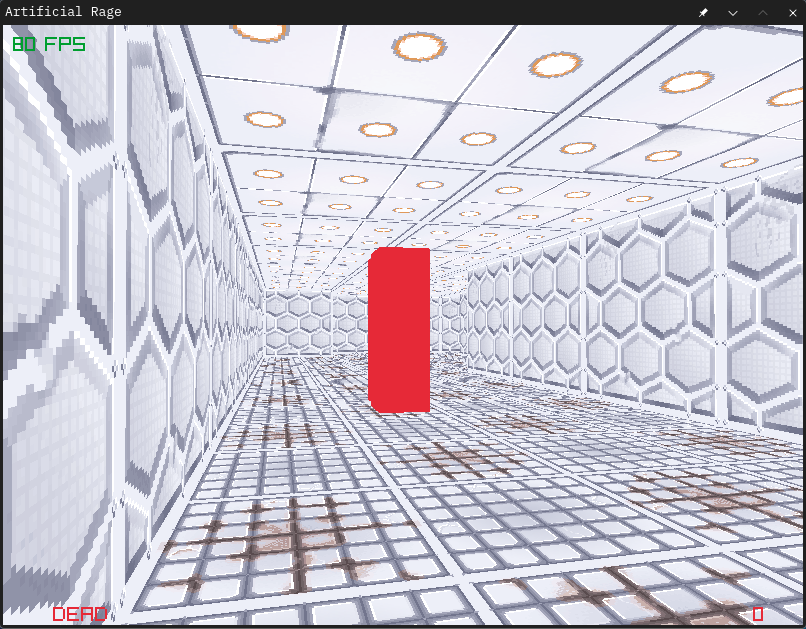
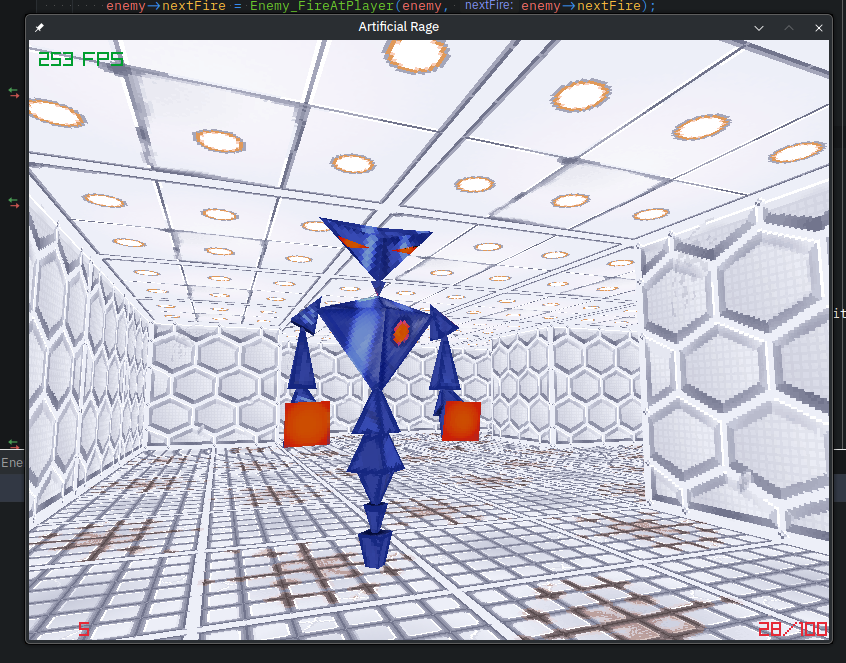
wip: load enemy models

diff --git a/src/enemy.c b/src/enemy.c
@@ -16,7 +16,13 @@ Enemy_Data Enemy_Add(float pos_x, float pos_y, int id)
     Vector3 enemyPosition = (Vector3) { pos_x, ENEMY_START_POSITION_Y, pos_y };
     Vector3 enemySize     = (Vector3) { 0.25f, 0.8f, 0.25f };
     float randomTickRate  = ((float)rand() / (float)(RAND_MAX)) * 2;
-    Enemy_Model model = {};
+    const char modelFileName[128] = "./assets/enemy.m3d";
+    Enemy_Model model = {
+        .model = LoadModel(modelFileName),
+        //.animations = LoadModelAnimations(modelFileName,
+        //                                                    (unsigned int*)ENEMY_ANIMATION_COUNT),
+        .currentAnimation = IDLE
+    };
     Enemy_Data enemy      = {
              .position    = enemyPosition,
              .size        = enemySize,
@@ -39,7 +45,7 @@ void Enemy_Update(Enemy_Data* enemy)
 {
     if(!enemy->dead)
     {
-        Enemy_Draw(*enemy);
+        Enemy_Draw(enemy);
         if(enemy->nextTick > 0)
         {
             enemy->nextTick -= GetFrameTime();
@@ -54,9 +60,9 @@ void Enemy_Update(Enemy_Data* enemy)
     }
 }
 
-void Enemy_Draw(Enemy_Data enemy)
+void Enemy_Draw(Enemy_Data* enemy)
 {
-    DrawCubeV(enemy.position, enemy.size, RED);
+    DrawModel(enemy->model.model, enemy->position, 0.5f, WHITE);
 }
 
 Ray Enemy_CreateRay(Enemy_Data* enemy)
@@ -150,7 +156,7 @@ void Enemy_TakeDamage(Enemy_Data* enemy, int damageAmount)
     if(!enemy->dead)
     {
         enemy->health -= damageAmount;
-        Enemy_PlayAnimation(enemy, HIT);
+        //Enemy_PlayAnimation(enemy, HIT); //No hit animation, make enemy flash red instead?
         printf("Enemy id %d took %d damage\n", enemy->id, damageAmount);
         if(enemy->health <= 0)
         {
@@ -190,11 +196,12 @@ float Enemy_FireAtPlayer(Enemy_Data* enemy, float nextFire)
 
 void Enemy_PlayAnimation(Enemy_Data* enemy, enum AnimationID animationId)
 {
+    return;
     if(enemy->model.currentAnimation != animationId)
     {
         enemy->model.animationFrame = 0;
     }
     enemy->model.currentAnimation = animationId;
     enemy->model.animationFrame   = Utilities_PlayAnimation(
-        enemy->model.model, &enemy->model.animations[animationId], enemy->model.animationFrame);
+        enemy->model.model, &enemy->model.animations[animationId], enemy->model.animationFrame, animationId);
 }

diff --git a/src/enemy.h b/src/enemy.h
@@ -14,15 +14,15 @@
 #define ENEMY_GRAVEYARD_POSITION       999.0f
 #define ENEMY_MAX_DISTANCE_FROM_PLAYER 1.25f
 #define ENEMY_DEFAULT_SPEED            0.45f  // Lower values result to lower speed
+#define ENEMY_ANIMATION_COUNT          4
 
 // Example: https://www.raylib.com/examples/models/loader.html?name=models_animation
 typedef struct Enemy_Model
 {
         Model model;                 // LoadModel
-        Texture2D texture;           // LoadTexture and SetMaterialTexture
         ModelAnimation* animations;  // LoadAnimations
         int animationFrame;
-        int currentAnimation;
+        enum AnimationID currentAnimation;
 } Enemy_Model;
 
 typedef struct Enemy_Data
@@ -44,7 +44,7 @@ typedef struct Enemy_Data
 
 Enemy_Data Enemy_Add(float pos_x, float pos_y, int id);
 void Enemy_Update(Enemy_Data* enemy);
-void Enemy_Draw(Enemy_Data enemy);
+void Enemy_Draw(Enemy_Data* enemy);
 void Enemy_TakeDamage(Enemy_Data* enemy, int damageAmount);
 
 #endif

diff --git a/src/utilities.h b/src/utilities.h
@@ -6,19 +6,18 @@
 #include "raymath.h"
 #include <stdio.h>
 
-Vector2 Utilities_GetScreenCenter();
-BoundingBox Utilities_MakeBoundingBox(Vector3 position, Vector3 size);
-Color Utilities_GetLevelPixelColor(Color* levelMapPixels, int x, int width, int y);
-bool Utilities_CompareColors(Color color1, Color color2);
-int Utilities_PlayAnimation(Model model, ModelAnimation* animations, int frameCounter);
-
 typedef enum AnimationID
 {
     IDLE   = 0,
     MOVE   = 1,
-    HIT    = 2,
-    ATTACK = 3,
-    DEATH  = 4,
-};
+    ATTACK = 2,
+    DEATH  = 3,
+} AnimationID;
+
+Vector2 Utilities_GetScreenCenter();
+BoundingBox Utilities_MakeBoundingBox(Vector3 position, Vector3 size);
+Color Utilities_GetLevelPixelColor(Color* levelMapPixels, int x, int width, int y);
+bool Utilities_CompareColors(Color color1, Color color2);
+int Utilities_PlayAnimation(Model model, ModelAnimation* animations, int frameCounter, enum AnimationID animationId);
 
 #endif

diff --git a/src/utilities.c b/src/utilities.c
@@ -36,13 +36,13 @@ bool Utilities_CompareColors(Color color1, Color color2)
     }
 }
 
-int Utilities_PlayAnimation(Model model, ModelAnimation* animations, int frameCounter)
+int Utilities_PlayAnimation(Model model, ModelAnimation* animations, int frameCounter, enum AnimationID animationId)
 {
     frameCounter++;
-    UpdateModelAnimation(model, animations[0], frameCounter);
-    if(frameCounter >= animations[0].frameCount)
+    if (frameCounter >= animations[animationId].frameCount)
     {
         frameCounter = 0;
     }
+    UpdateModelAnimation(model, animations[animationId], frameCounter);
     return frameCounter;
 }
